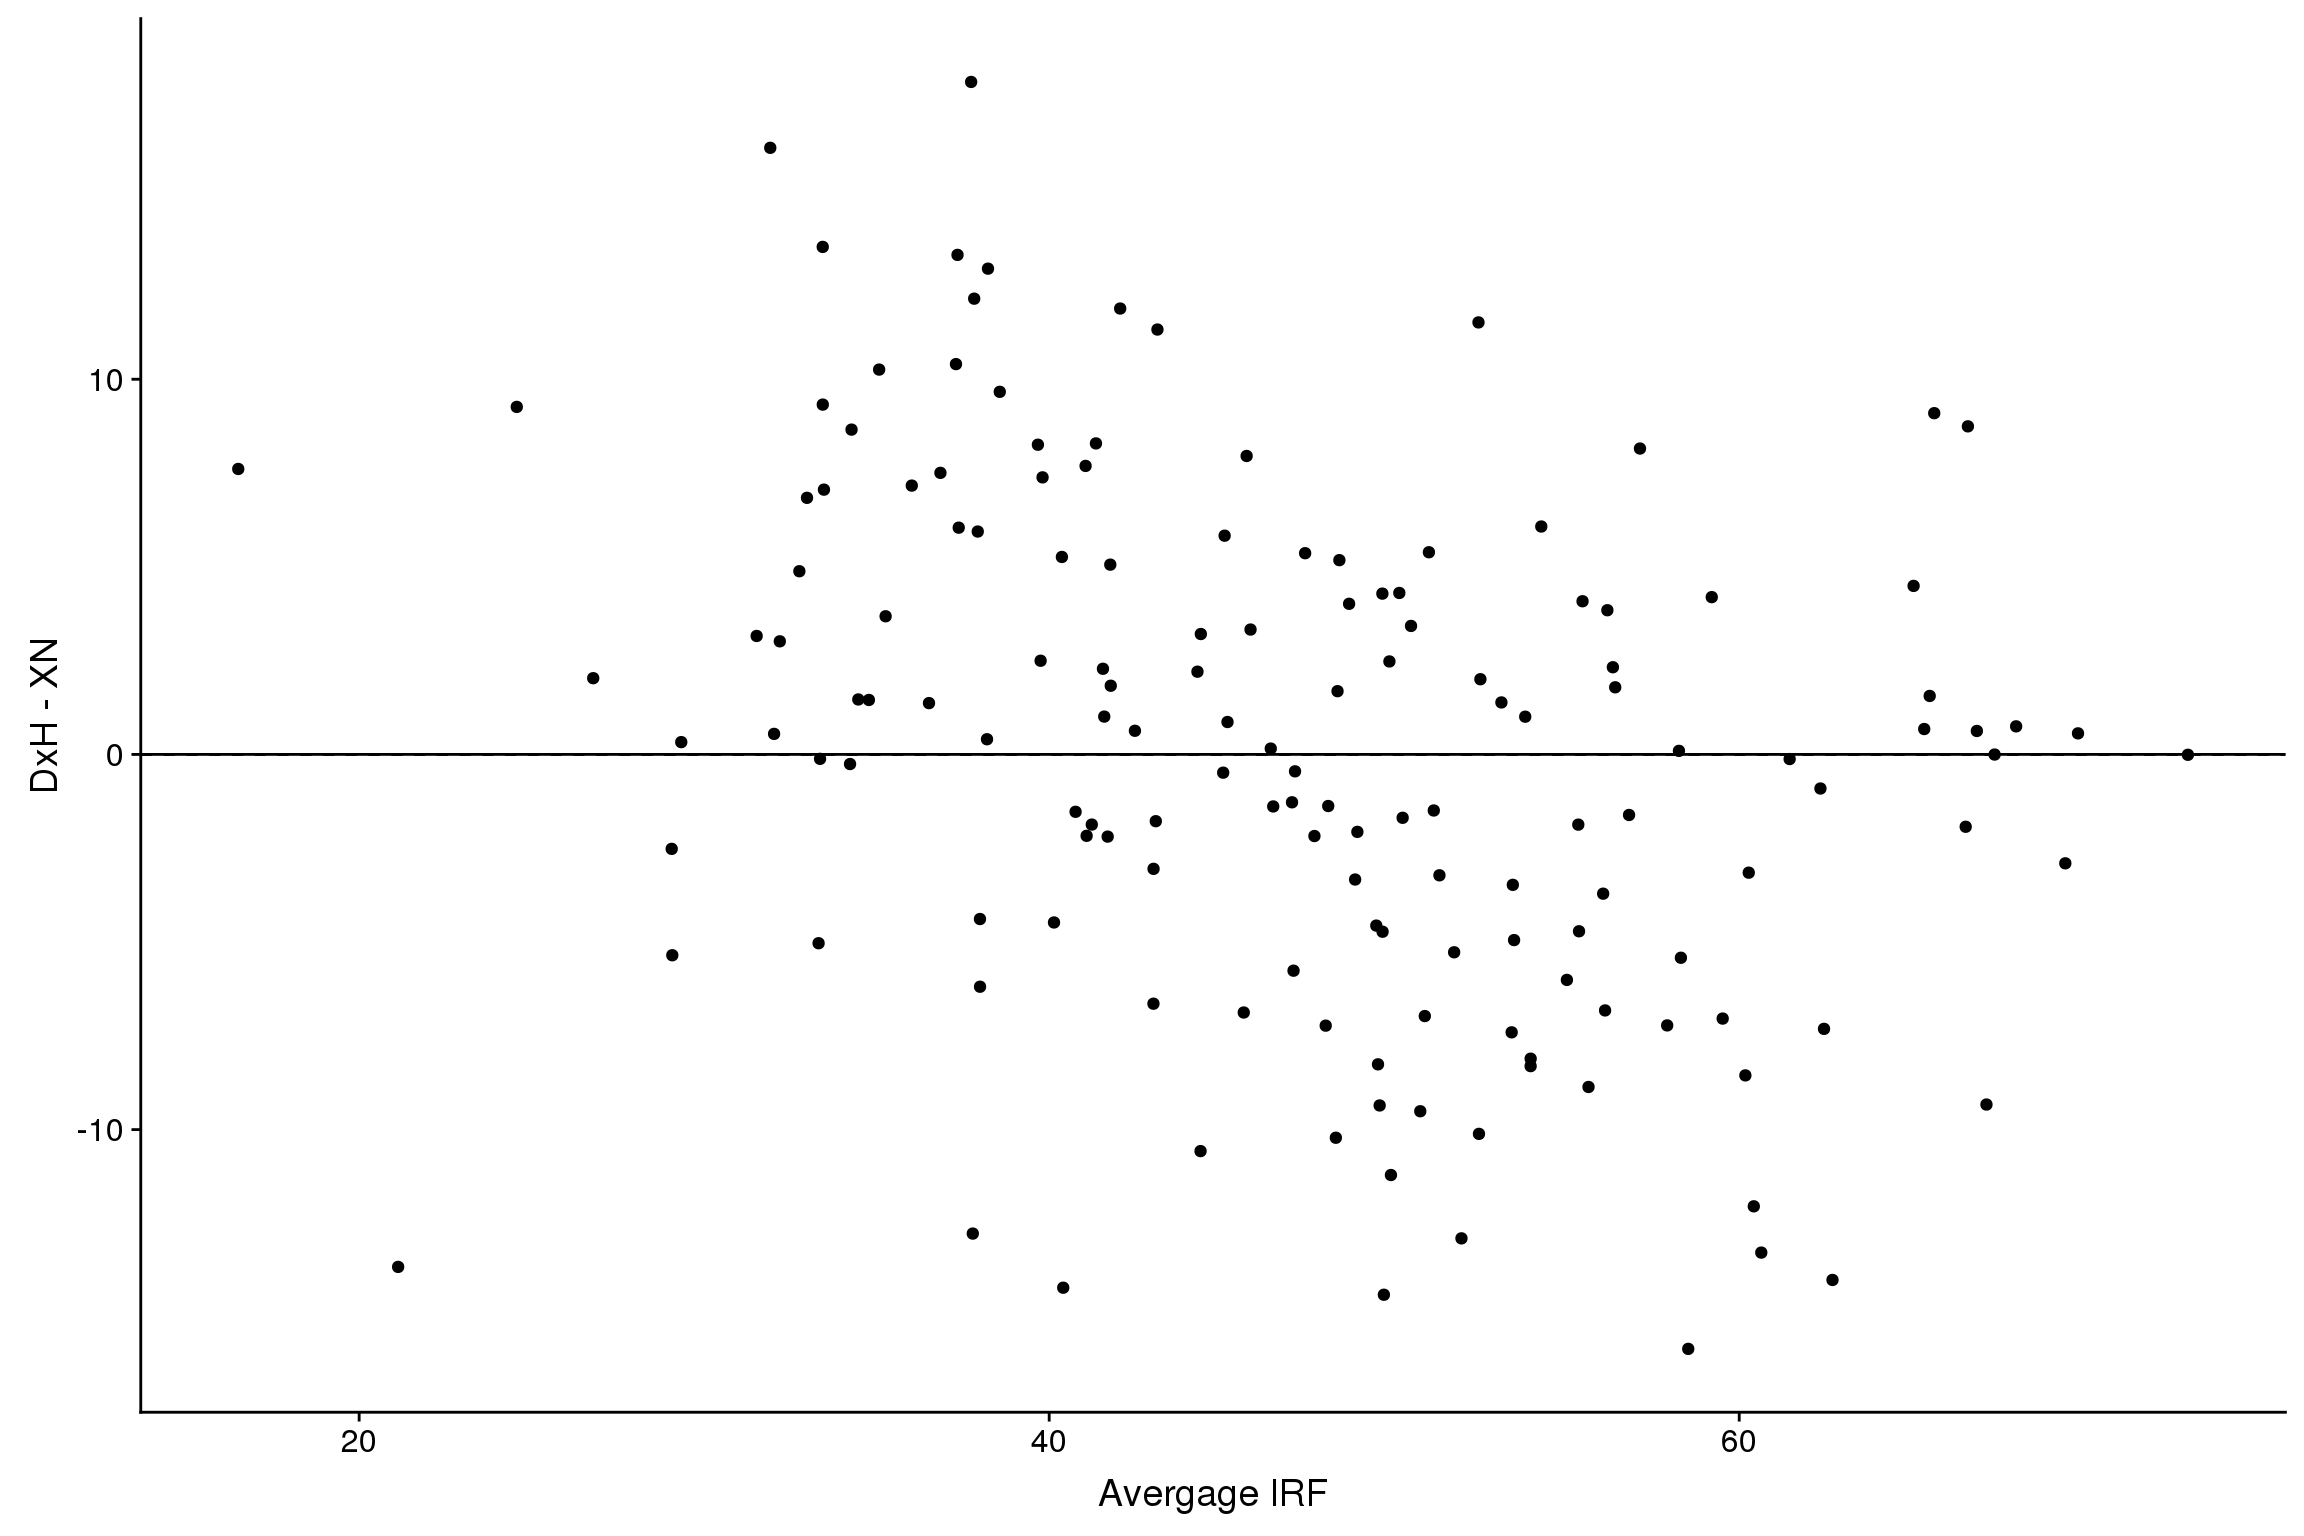
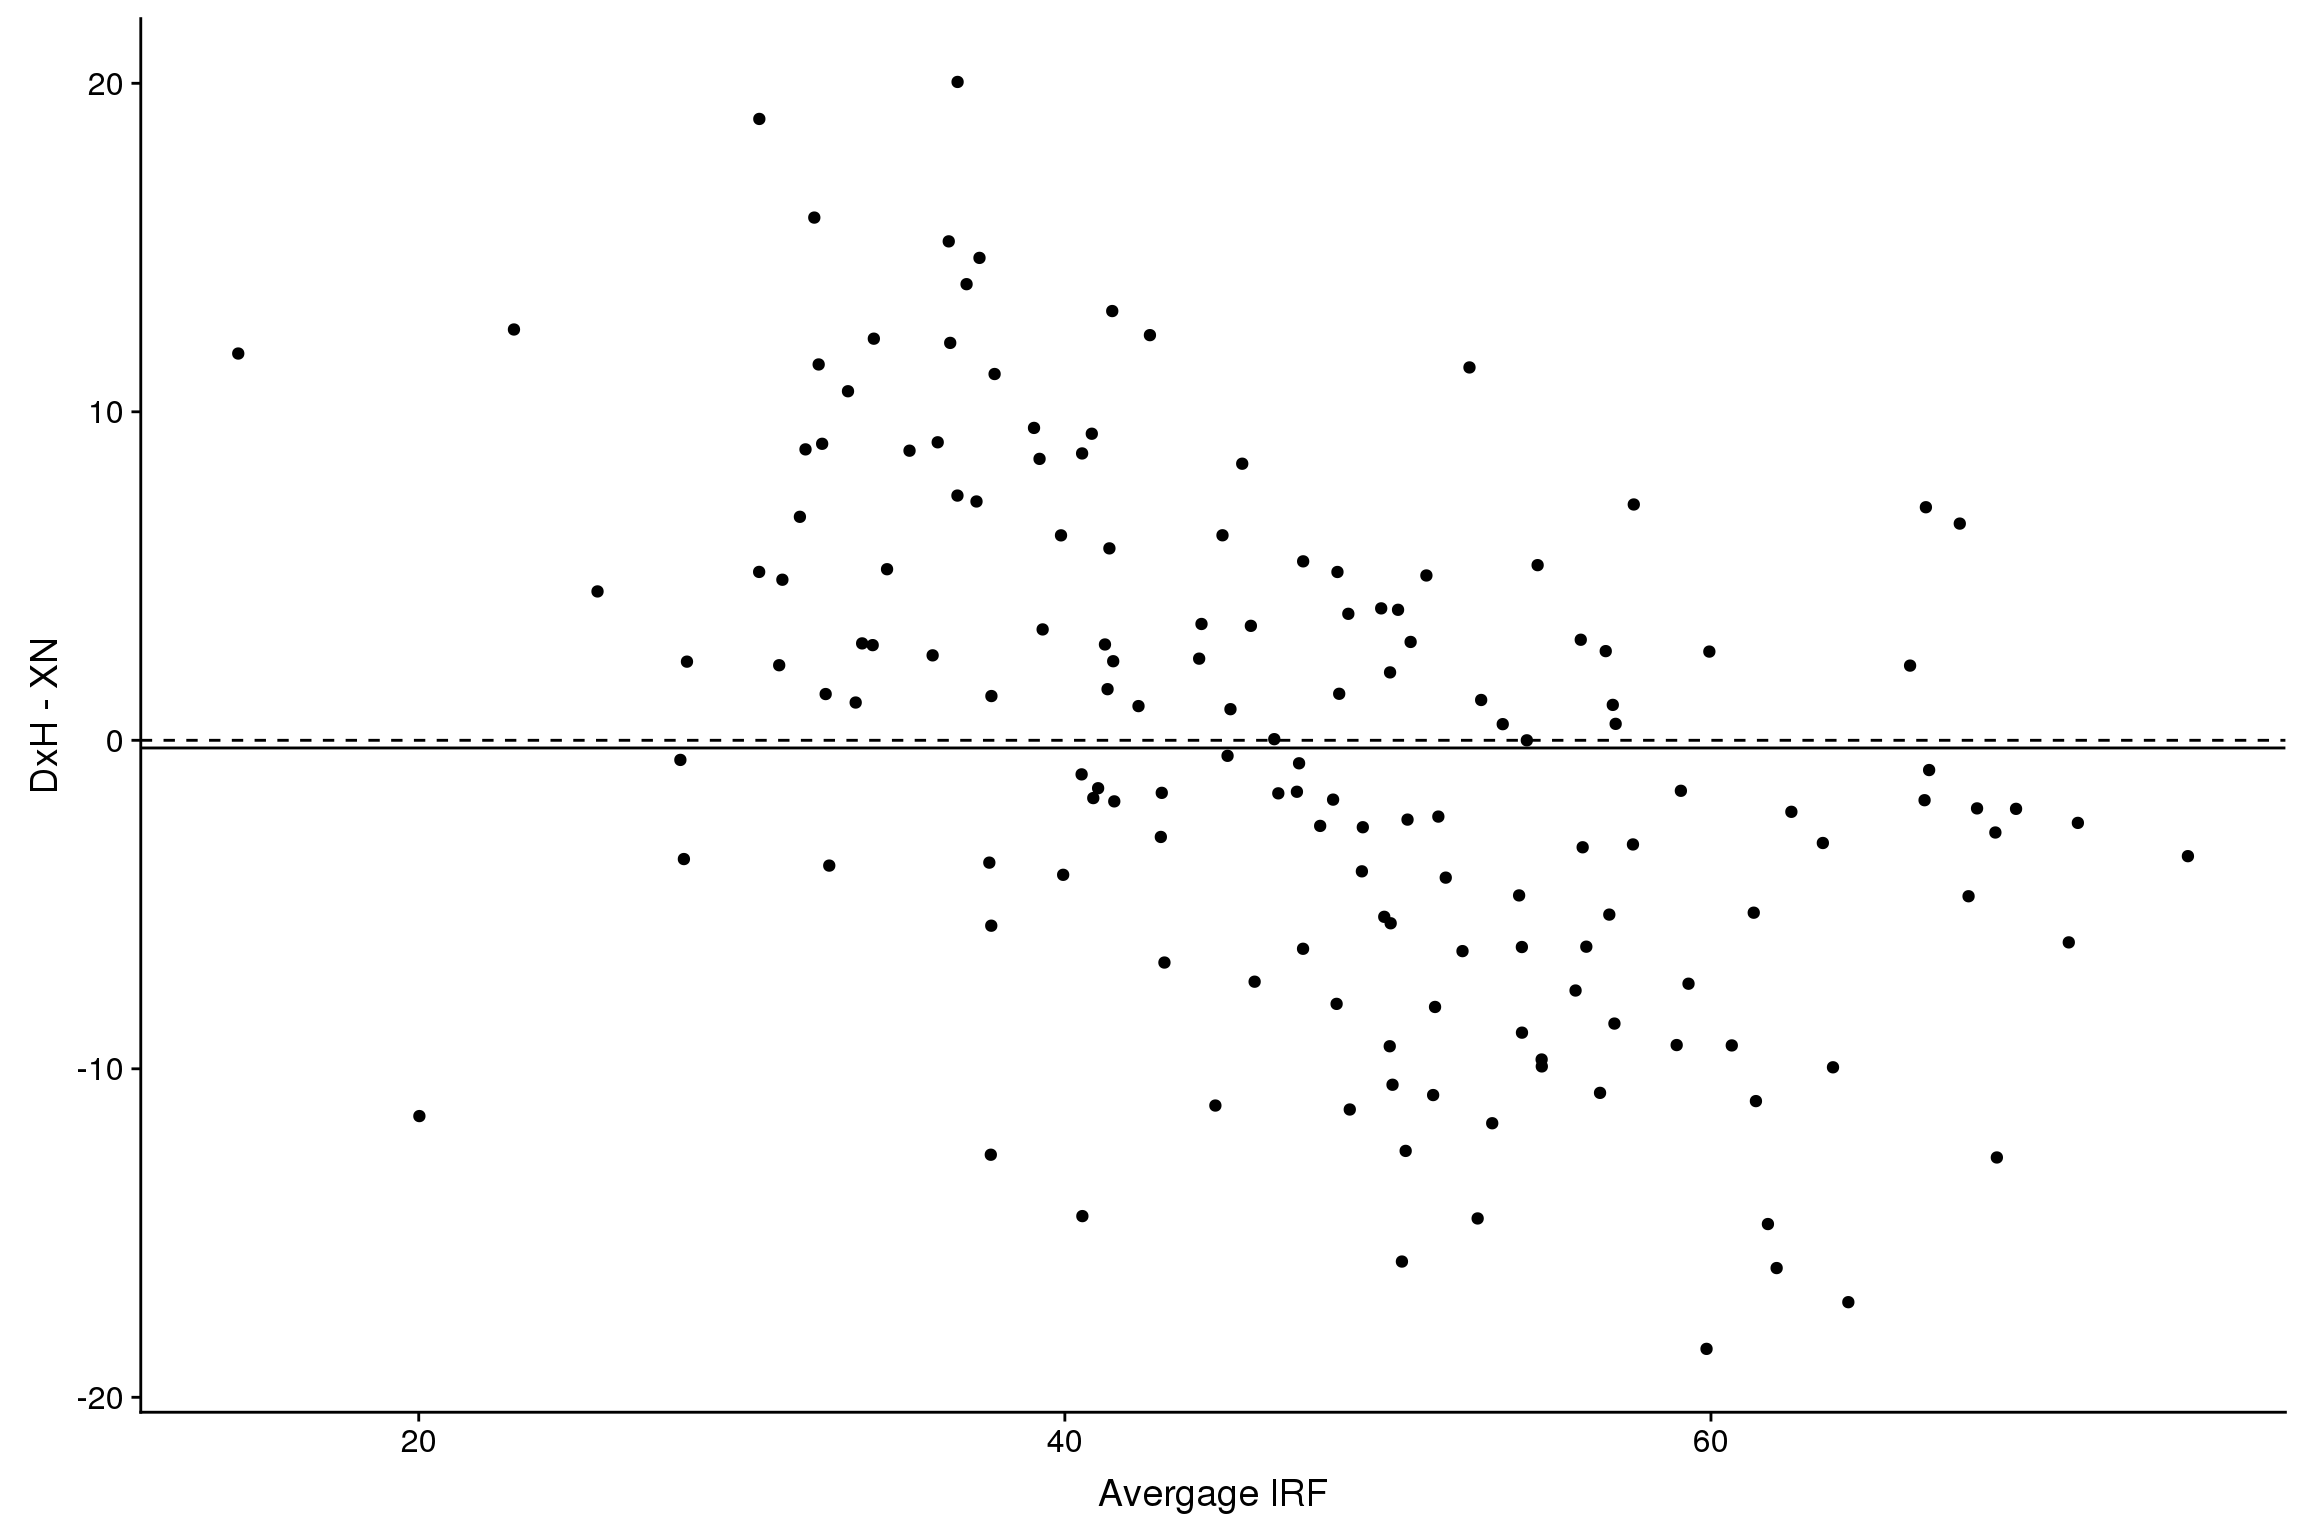
new

diff --git a/docs/irf_cor.html b/docs/irf_cor.html
@@ -13,7 +13,7 @@
 
 <meta name="date" content="2018-08-31" />
 
-<title>HUP_CHOP Correlation</title>
+<title>BC DxH/Sysmex XN IRF Correlation</title>
 
 <script src="site_libs/jquery-1.12.4/jquery.min.js"></script>
 <meta name="viewport" content="width=device-width, initial-scale=1" />
@@ -321,7 +321,7 @@ div.section {
 
 
 
-<h1 class="title toc-ignore">HUP_CHOP Correlation</h1>
+<h1 class="title toc-ignore">BC DxH/Sysmex XN IRF Correlation</h1>
 <h4 class="author"><em>Amrom</em></h4>
 <h4 class="date"><em>2018-08-31</em></h4>
 
@@ -351,27 +351,26 @@ div.section {
 </details>
 </li>
 <li>
-<p><details> <summary> <strong style="color:blue;">✔</strong> <strong>Repository version:</strong> <a href="https://github.com/amromeo/icsh_irf/tree/3c7020173a05c50c47d5e00496f7920602264689" target="_blank">3c70201</a> </summary></p>
+<p><details> <summary> <strong style="color:blue;">✔</strong> <strong>Repository version:</strong> <a href="https://github.com/amromeo/icsh_irf/tree/427447fc347a5993972e75e7ab73b29a9085ef77" target="_blank">427447f</a> </summary></p>
 Great! You are using Git for version control. Tracking code development and connecting the code version to the results is critical for reproducibility. The version displayed above was the version of the Git repository at the time these results were generated. <br><br> Note that you need to be careful to ensure that all relevant files for the analysis have been committed to Git prior to generating the results (you can use <code>wflow_publish</code> or <code>wflow_git_commit</code>). workflowr only checks the R Markdown file, but you know if there are other scripts or data files that it depends on. Below is the status of the Git repository when the results were generated:
 <pre><code>
 Ignored files:
     Ignored:    .Rhistory
     Ignored:    .Rproj.user/
+    Ignored:    data/4-17-18/
+    Ignored:    data/4-25-18/
+    Ignored:    data/5-17-18/
+    Ignored:    data/5-3-18/
+    Ignored:    data/5-30-18/
+    Ignored:    data/5-8-18/
+    Ignored:    data/6-14-18/
+    Ignored:    data/7-10-18/
+    Ignored:    data/7-3-18/
+    Ignored:    data/8-1-18/
     Ignored:    library/
 
-Untracked files:
-    Untracked:  data/4-17-18/
-    Untracked:  data/4-25-18/
-    Untracked:  data/5-17-18/
-    Untracked:  data/5-3-18/
-    Untracked:  data/5-30-18/
-    Untracked:  data/5-8-18/
-    Untracked:  data/6-14-18/
-    Untracked:  data/7-10-18/
-    Untracked:  data/7-3-18/
-    Untracked:  data/8-1-18/
-
 Unstaged changes:
+    Modified:   .gitignore
     Modified:   analysis/irf_cor.Rmd
 
 </code></pre>
@@ -401,6 +400,23 @@ Message
 </tr>
 </thead>
 <tbody>
+<tr>
+<td style="text-align:left;">
+html
+</td>
+<td style="text-align:left;">
+<a href="https://cdn.rawgit.com/amromeo/icsh_irf/427447fc347a5993972e75e7ab73b29a9085ef77/docs/irf_cor.html" target="_blank">427447f</a>
+</td>
+<td style="text-align:left;">
+Amrom
+</td>
+<td style="text-align:left;">
+2018-09-06
+</td>
+<td style="text-align:left;">
+latest
+</td>
+</tr>
 <tr>
 <td style="text-align:left;">
 Rmd
@@ -611,6 +627,17 @@ Date
 <tbody>
 <tr>
 <td style="text-align:left;">
+<a href="https://github.com/amromeo/icsh_irf/blob/427447fc347a5993972e75e7ab73b29a9085ef77/docs/figure/irf_cor.Rmd/unnamed-chunk-6-1.png" target="_blank">427447f</a>
+</td>
+<td style="text-align:left;">
+Amrom
+</td>
+<td style="text-align:left;">
+2018-09-06
+</td>
+</tr>
+<tr>
+<td style="text-align:left;">
 <a href="https://github.com/amromeo/icsh_irf/blob/3c7020173a05c50c47d5e00496f7920602264689/docs/figure/irf_cor.Rmd/unnamed-chunk-6-1.png" target="_blank">3c70201</a>
 </td>
 <td style="text-align:left;">
@@ -645,15 +672,165 @@ Amrom
 </tbody>
 </table>
 <p></details> <img src="figure/irf_cor.Rmd/unnamed-chunk-6-2.png" width="1152" style="display: block; margin: auto;" /></p>
+<details> <summary><em>Expand here to see past versions of unnamed-chunk-6-2.png:</em></summary>
+<table style="border-collapse:separate; border-spacing:5px;">
+<thead>
+<tr>
+<th style="text-align:left;">
+Version
+</th>
+<th style="text-align:left;">
+Author
+</th>
+<th style="text-align:left;">
+Date
+</th>
+</tr>
+</thead>
+<tbody>
+<tr>
+<td style="text-align:left;">
+<a href="https://github.com/amromeo/icsh_irf/blob/427447fc347a5993972e75e7ab73b29a9085ef77/docs/figure/irf_cor.Rmd/unnamed-chunk-6-2.png" target="_blank">427447f</a>
+</td>
+<td style="text-align:left;">
+Amrom
+</td>
+<td style="text-align:left;">
+2018-09-06
+</td>
+</tr>
+</tbody>
+</table>
+<p></details></p>
 </div>
 <div id="deming-regression" class="section level2">
 <h2>Deming regression</h2>
 <p>A Deming regression model was fitted using the log transformed XN IRF data and the raw DxH data.</p>
-<p>Results demonstrate a pearson correlation coefficient of 0.833. Slope estimate was 47.899 (95% CI 53.092-43.44) and intercept was -5.52 (95% CI -0.427–11.532). The model is plotted below.</p>
+<p>Results demonstrate a pearson correlation coefficient of 0.833. Slope estimate was 54 (95% CI 66.428-42.026) and intercept was -12.005 (95% CI 0.986–25.82). The model is plotted below.</p>
 <p><img src="figure/irf_cor.Rmd/unnamed-chunk-8-1.png" width="1152" style="display: block; margin: auto;" /></p>
+<details> <summary><em>Expand here to see past versions of unnamed-chunk-8-1.png:</em></summary>
+<table style="border-collapse:separate; border-spacing:5px;">
+<thead>
+<tr>
+<th style="text-align:left;">
+Version
+</th>
+<th style="text-align:left;">
+Author
+</th>
+<th style="text-align:left;">
+Date
+</th>
+</tr>
+</thead>
+<tbody>
+<tr>
+<td style="text-align:left;">
+<a href="https://github.com/amromeo/icsh_irf/blob/427447fc347a5993972e75e7ab73b29a9085ef77/docs/figure/irf_cor.Rmd/unnamed-chunk-8-1.png" target="_blank">427447f</a>
+</td>
+<td style="text-align:left;">
+Amrom
+</td>
+<td style="text-align:left;">
+2018-09-06
+</td>
+</tr>
+</tbody>
+</table>
+<p></details></p>
 <p>Using the model to generate an “adjusted” IRF for the XN, below would be the correlation plot and the bias plots.</p>
 <p><img src="figure/irf_cor.Rmd/unnamed-chunk-9-1.png" width="1152" style="display: block; margin: auto;" /></p>
-<p><img src="figure/irf_cor.Rmd/unnamed-chunk-10-1.png" width="1152" style="display: block; margin: auto;" /><img src="figure/irf_cor.Rmd/unnamed-chunk-10-2.png" width="1152" style="display: block; margin: auto;" /></p>
+<details> <summary><em>Expand here to see past versions of unnamed-chunk-9-1.png:</em></summary>
+<table style="border-collapse:separate; border-spacing:5px;">
+<thead>
+<tr>
+<th style="text-align:left;">
+Version
+</th>
+<th style="text-align:left;">
+Author
+</th>
+<th style="text-align:left;">
+Date
+</th>
+</tr>
+</thead>
+<tbody>
+<tr>
+<td style="text-align:left;">
+<a href="https://github.com/amromeo/icsh_irf/blob/427447fc347a5993972e75e7ab73b29a9085ef77/docs/figure/irf_cor.Rmd/unnamed-chunk-9-1.png" target="_blank">427447f</a>
+</td>
+<td style="text-align:left;">
+Amrom
+</td>
+<td style="text-align:left;">
+2018-09-06
+</td>
+</tr>
+</tbody>
+</table>
+<p></details></p>
+<p><img src="figure/irf_cor.Rmd/unnamed-chunk-10-1.png" width="1152" style="display: block; margin: auto;" /></p>
+<details> <summary><em>Expand here to see past versions of unnamed-chunk-10-1.png:</em></summary>
+<table style="border-collapse:separate; border-spacing:5px;">
+<thead>
+<tr>
+<th style="text-align:left;">
+Version
+</th>
+<th style="text-align:left;">
+Author
+</th>
+<th style="text-align:left;">
+Date
+</th>
+</tr>
+</thead>
+<tbody>
+<tr>
+<td style="text-align:left;">
+<a href="https://github.com/amromeo/icsh_irf/blob/427447fc347a5993972e75e7ab73b29a9085ef77/docs/figure/irf_cor.Rmd/unnamed-chunk-10-1.png" target="_blank">427447f</a>
+</td>
+<td style="text-align:left;">
+Amrom
+</td>
+<td style="text-align:left;">
+2018-09-06
+</td>
+</tr>
+</tbody>
+</table>
+<p></details> <img src="figure/irf_cor.Rmd/unnamed-chunk-10-2.png" width="1152" style="display: block; margin: auto;" /></p>
+<details> <summary><em>Expand here to see past versions of unnamed-chunk-10-2.png:</em></summary>
+<table style="border-collapse:separate; border-spacing:5px;">
+<thead>
+<tr>
+<th style="text-align:left;">
+Version
+</th>
+<th style="text-align:left;">
+Author
+</th>
+<th style="text-align:left;">
+Date
+</th>
+</tr>
+</thead>
+<tbody>
+<tr>
+<td style="text-align:left;">
+<a href="https://github.com/amromeo/icsh_irf/blob/427447fc347a5993972e75e7ab73b29a9085ef77/docs/figure/irf_cor.Rmd/unnamed-chunk-10-2.png" target="_blank">427447f</a>
+</td>
+<td style="text-align:left;">
+Amrom
+</td>
+<td style="text-align:left;">
+2018-09-06
+</td>
+</tr>
+</tbody>
+</table>
+<p></details></p>
 </div>
 <div id="session-information" class="section level2">
 <h2>Session information</h2>
